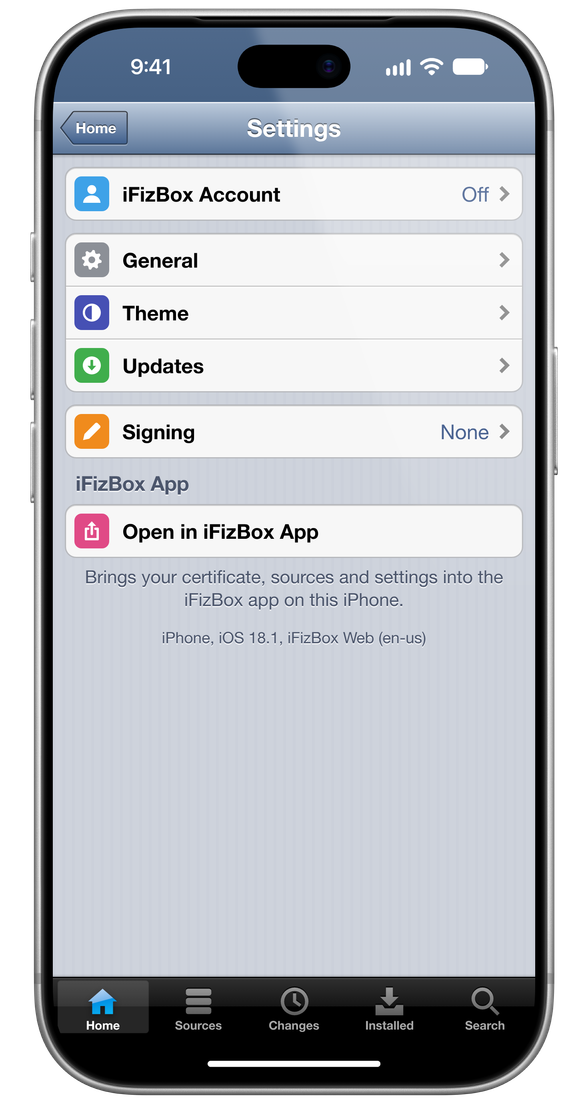
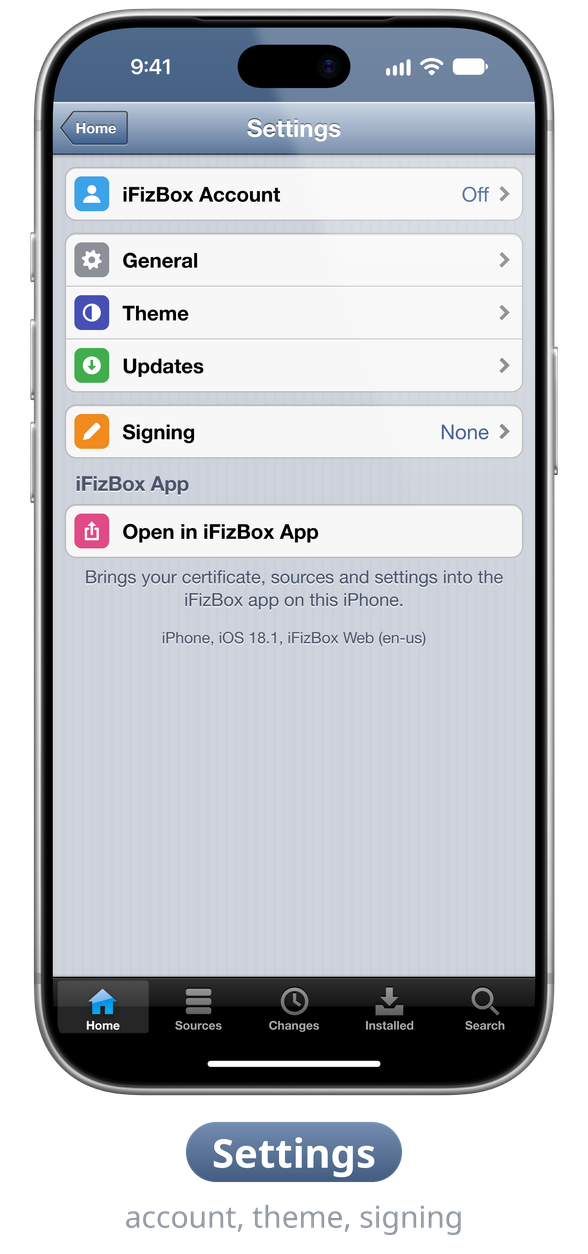
README screenshots labelled in the image: readme_shots.py draws each page's name on a blue pill with a grey line under it (--relabel for framed PNGs)

diff --git a/tools/readme_shots.py b/tools/readme_shots.py
@@ -24,6 +24,11 @@ From the kit (a .sketch file is a zip; pages/*.json hold the layers, images/ the
 - the font: the kit's embedded SF Pro (fonts/, variable; the Semibold instance);
 - the home indicator: "Home Indicators/Portrait - Dark - iPhone" (144x5 at 7 in a 20-point strip at the bottom).
 
+Each phone named in LABELS gets its caption drawn under it, in the PNG, so it always sits under its own phone at
+the same size: the page's name in white on a blue pill, a short line under it in grey (both read on GitHub's light
+and dark themes), in Noto Sans (fc-match). --relabel OUT_DIR... redraws the captions of PNGs this tool already
+framed (it keeps the phone, drops any old caption), for when the captures are gone.
+
 --plain skips the phone: the screen with the iOS rounded corners (55 points) and the padding, for when the kit isn't
 at hand. The kit and anything taken out of it stay in ref/ (gitignored, AGENTS.md); only the framed PNGs are
 committed (Apple publishes these bezels for showing apps). Local tool: needs Pillow, like tools/kitmatch.py; the
@@ -31,6 +36,7 @@ test gate doesn't run it.
 """
 import argparse
 import io
+import subprocess
 import json
 import re
 import sys
@@ -45,6 +51,51 @@ STATUS_SYMBOL = "Status Bars/iPhone 18 Pro/Dark Background"
 HOME_SYMBOL = "Home Indicators/Portrait - Dark - iPhone"
 SCREEN_RADIUS_PT = 55
 SS = 4  # supersampling for the vector status bar
+
+
+# PNG name: (the pill, the line under it).
+LABELS = {
+    "web-home": ("Home", "install the apps from here"), "web-sources": ("Sources", "APT repos and AltStore sources"),
+    "web-app": ("App", "details and what's new"), "web-changes": ("Changes", "updates by day"),
+    "jb-home": ("Home", "the jailbreak app"), "jb-sources": ("Sources", "your APT repos"),
+    "jb-package": ("Package", "details and versions"), "jb-log": ("Install", "apt's log, live"),
+    "web-search": ("Search", "every source at once"), "web-installed-manage": ("Installed", "manage several at once"),
+    "web-myipas": ("Install IPAs", "a file or a URL"), "web-theme": ("Theme", "with a live preview"),
+    "web-manage": ("Manage", "add and edit sources"), "web-settings": ("Settings", "account, theme, signing"),
+    "web-signing": ("Signing", "your certificate"), "jb-installed": ("Installed", "packages, A to Z"),
+}
+LABEL_H = 150  # caption height at the default --scale (a 588 px wide phone)
+SS = 4
+
+
+def label(title, line, width, height=LABEL_H):
+    font = lambda pattern, size: ImageFont.truetype(
+        subprocess.run(["fc-match", "-f", "%{file}", pattern], capture_output=True, text=True, check=True).stdout, size)
+    k = SS * height / LABEL_H
+    img = Image.new("RGBA", (round(width * SS), round(height * SS)), (0, 0, 0, 0))
+    d, cx = ImageDraw.Draw(img), img.width // 2
+    big = font("Noto Sans:bold", round(40 * k))
+    top, ph = round(18 * k), round(60 * k)
+    pw = round(d.textlength(title, font=big) + 52 * k)
+    # the nav bar's blue (sampled off the framed shots, a step darker for the white text), lighter at the top
+    pill = Image.composite(Image.new("RGBA", (pw, ph), (66, 92, 128, 255)), Image.new("RGBA", (pw, ph), (116, 141, 176, 255)),
+                           Image.linear_gradient("L").resize((pw, ph)))
+    mask = Image.new("L", (pw, ph), 0)
+    ImageDraw.Draw(mask).rounded_rectangle((0, 0, pw - 1, ph - 1), ph // 2, fill=255)
+    img.paste(pill, (cx - pw // 2, top), mask)
+    d.text((cx, top + ph // 2), title, font=big, fill=(255, 255, 255, 255), anchor="mm")
+    d.text((cx, top + ph + round(34 * k)), line, font=font("Noto Sans", round(30 * k)), fill=(140, 149, 159, 255), anchor="mm")
+    return img.resize((round(width), round(height)), Image.LANCZOS)
+
+
+def with_label(phone, name, scale):
+    if name not in LABELS:
+        return phone
+    lab = label(*LABELS[name], phone.width, round(LABEL_H * scale / 0.4))
+    out = Image.new("RGBA", (phone.width, phone.height + lab.height), (0, 0, 0, 0))
+    out.alpha_composite(phone)
+    out.alpha_composite(lab, (0, phone.height))
+    return out
 
 
 def bezel_symbol(finish):
@@ -269,7 +320,18 @@ def main():
     # 0.4 of the 3x bezel (540x1104): sharp at the README's ~200 px per phone on a 2x screen.
     ap.add_argument("--scale", type=float, default=0.4, help="output size, 1.0 = the 3x bezel (1350x2760)")
     ap.add_argument("--pad", type=int, default=24, help="transparent pixels left and right of each phone, at --scale")
+    ap.add_argument("--relabel", action="store_true", help="src and out are framed PNGs: redraw their captions")
     a = ap.parse_args()
+    if a.relabel:
+        a.out.mkdir(parents=True, exist_ok=True)
+        for src in sorted(a.src.glob("*.png")):
+            if src.stem not in LABELS:
+                continue
+            img = Image.open(src).convert("RGBA")
+            phone = img.crop((0, 0, img.width, round(2760 * a.scale)))  # the 3x bezel is 2760 px tall
+            with_label(phone, src.stem, a.scale).save(a.out / src.name, optimize=True)
+            print(a.out / src.name)
+        return
     kit = None
     if a.kit.exists():
         kit = Kit(a.kit)
@@ -282,6 +344,7 @@ def main():
         img = img.resize((round(img.width * a.scale), round(img.height * a.scale)), Image.LANCZOS)
         padded = Image.new("RGBA", (img.width + 2 * a.pad, img.height), (0, 0, 0, 0))
         padded.alpha_composite(img, (a.pad, 0))
+        padded = with_label(padded, src.stem, a.scale)
         dst = a.out / src.name
         padded.save(dst, optimize=True)
         print(f"{dst} {padded.width}x{padded.height} {dst.stat().st_size // 1024} KB")
